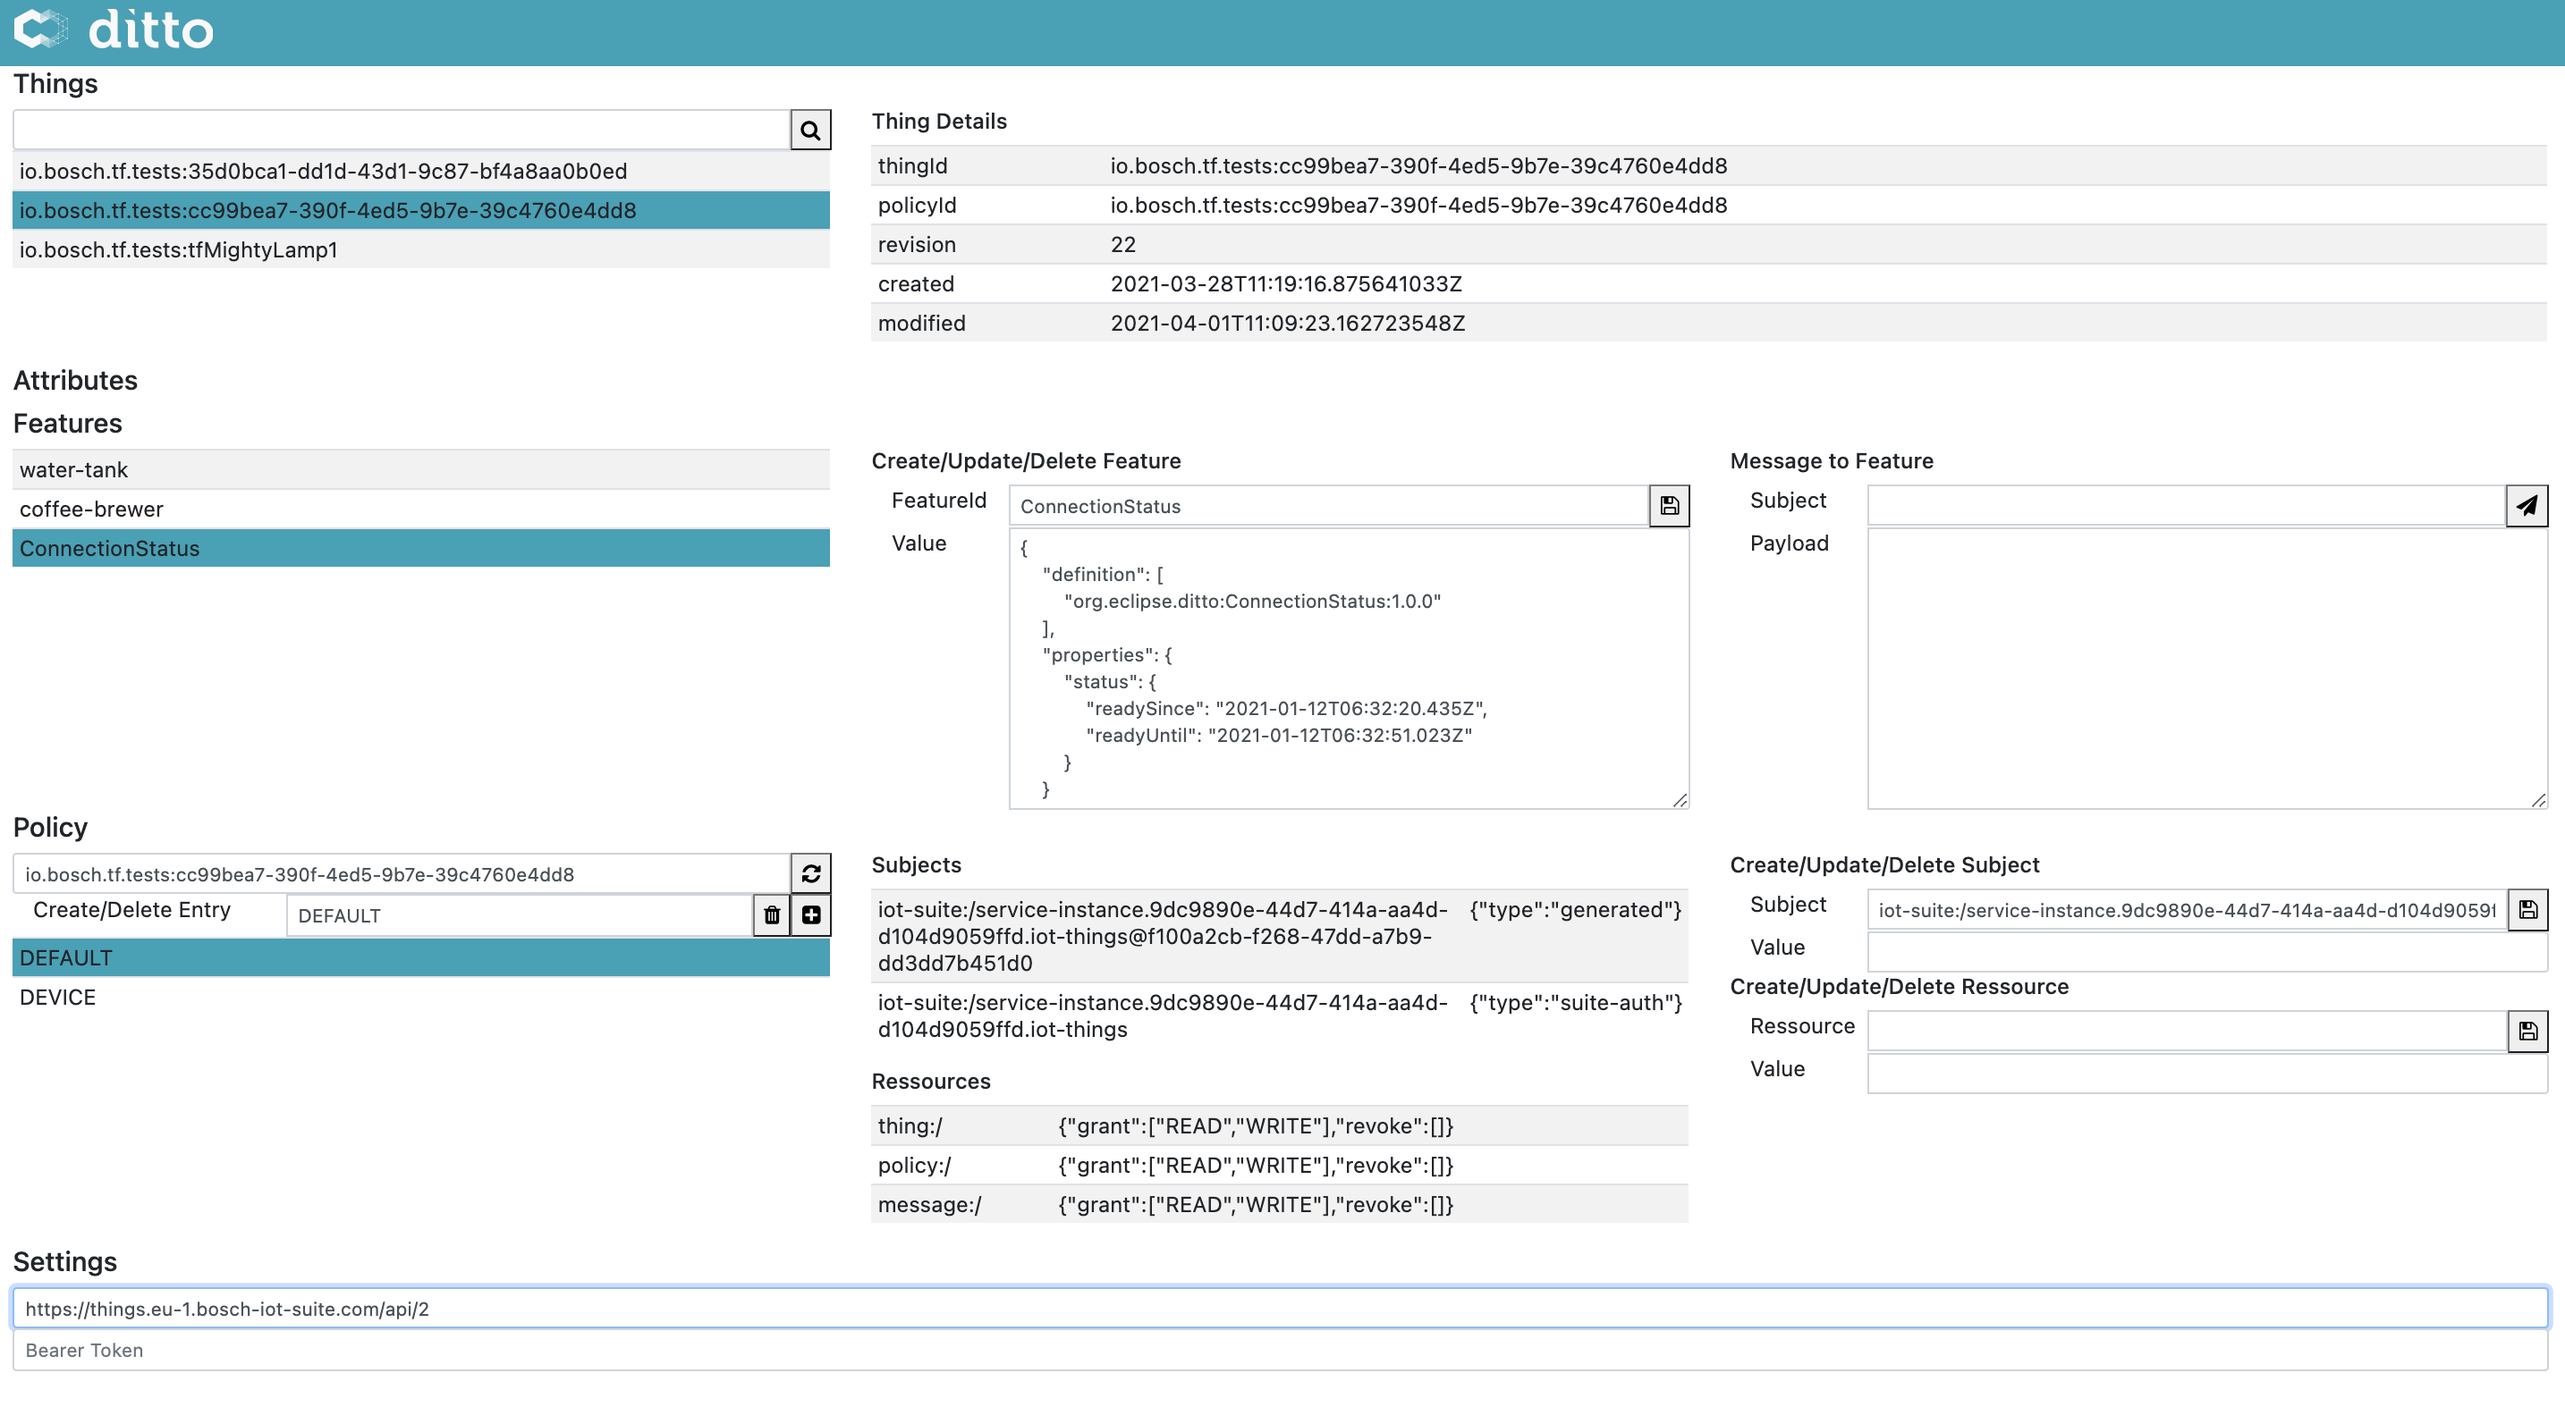
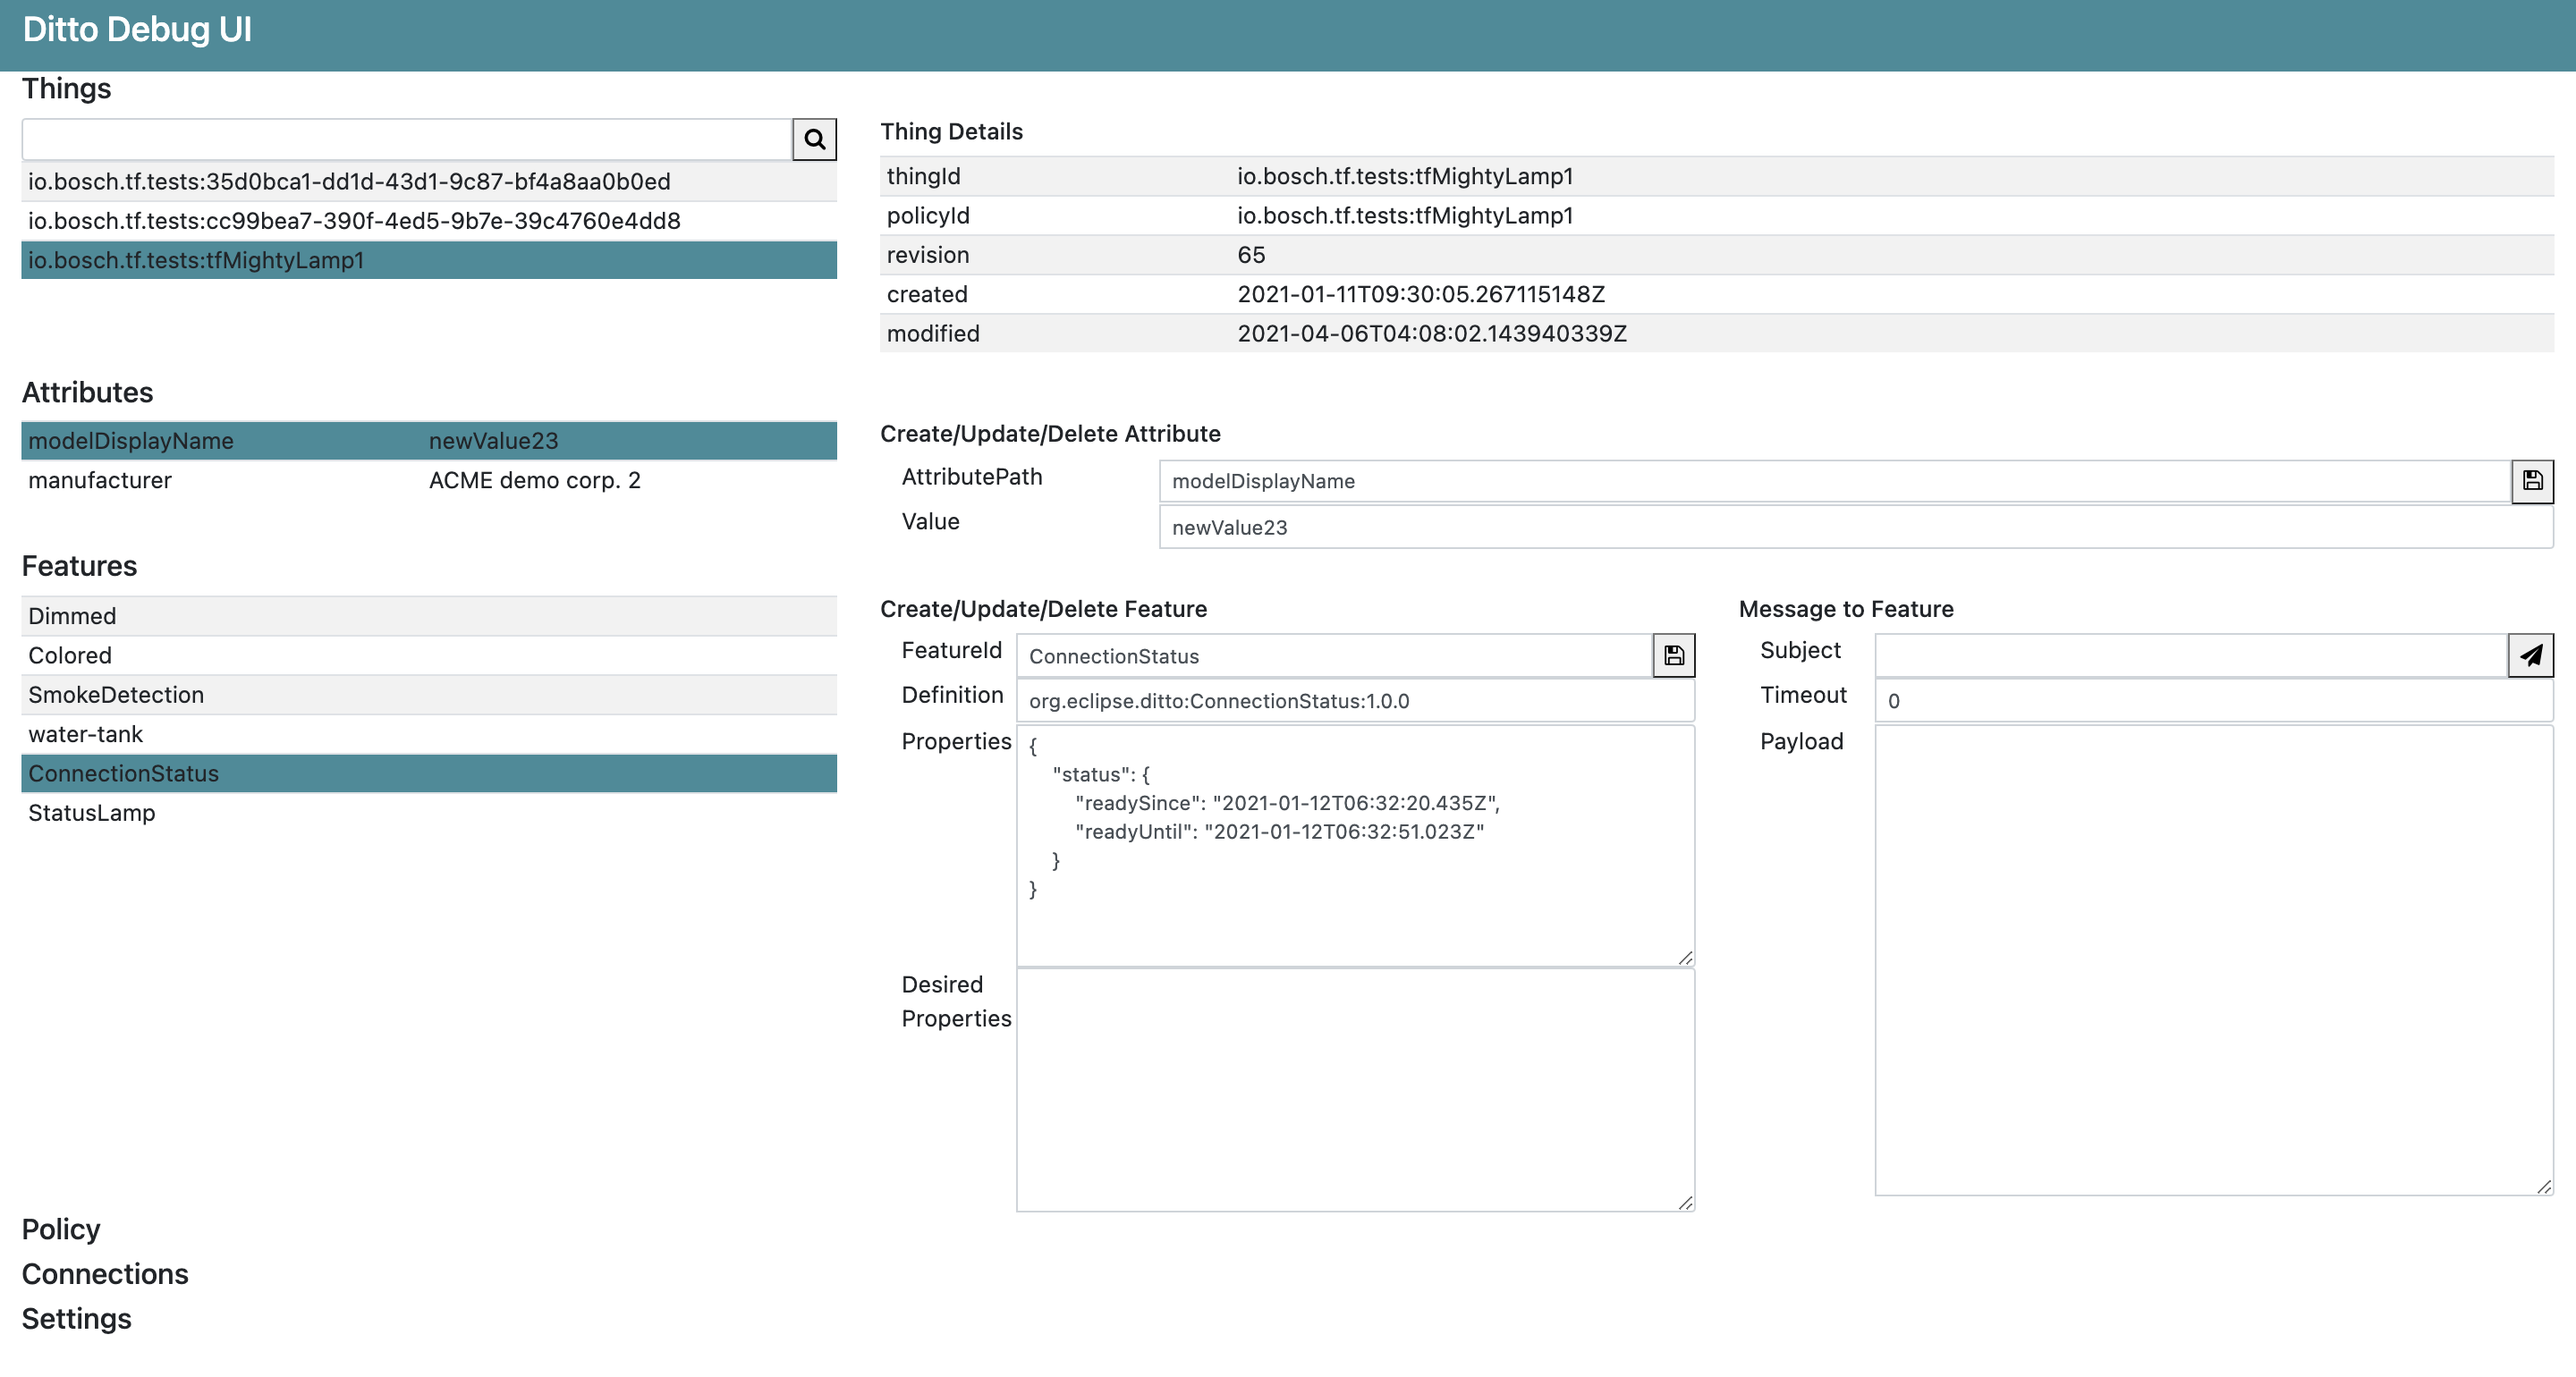
Updated Screenshots

diff --git a/README.md b/README.md
@@ -1,6 +1,8 @@
 # ditto-ui-bs4
 
-## Frontend screenshot
+## Frontend screenshots
 
 ![](./images/screenshot.png)
+![](./images/screenshotPolicy.png)
+![](./images/screenshotConnections.png)
 
